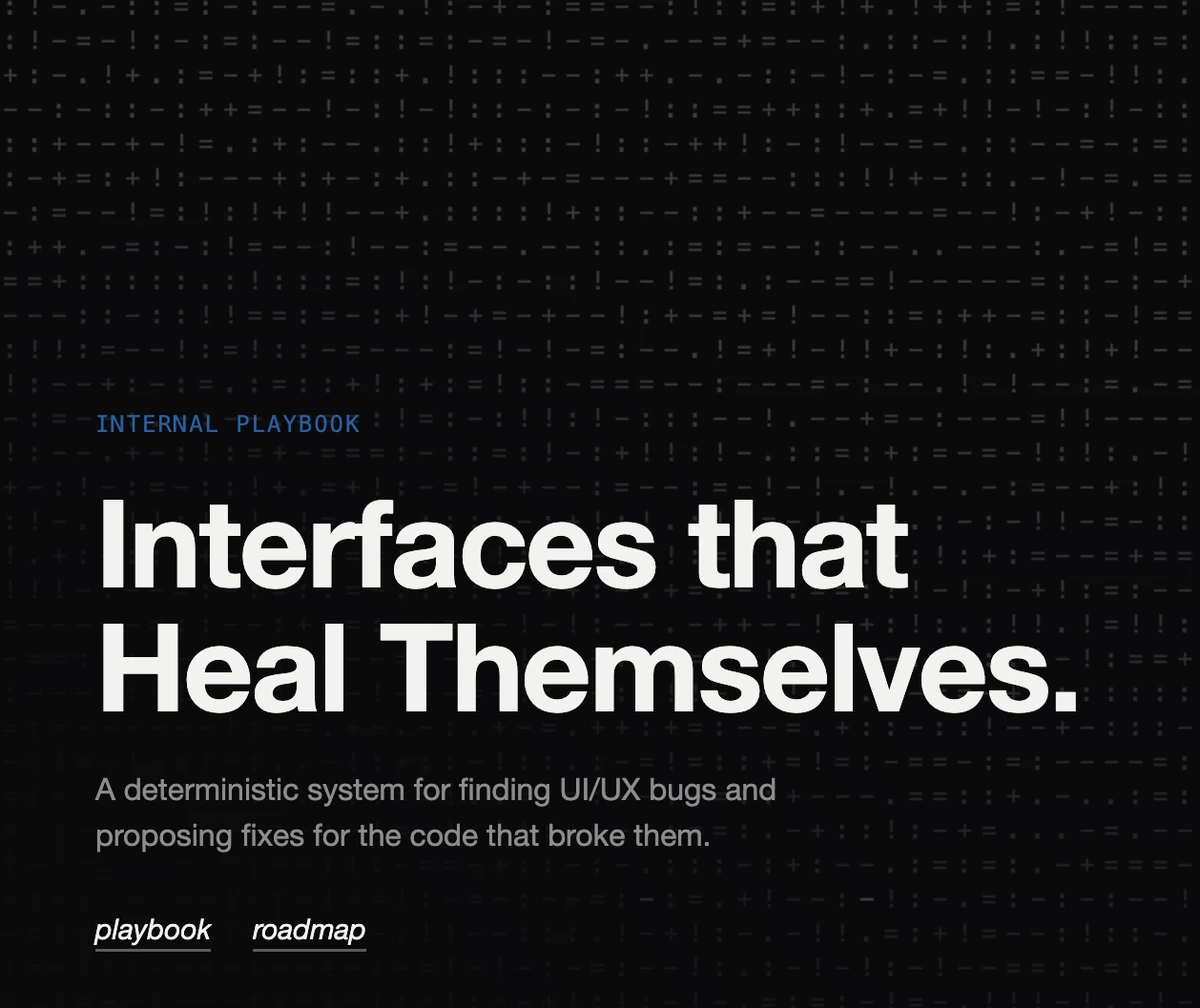
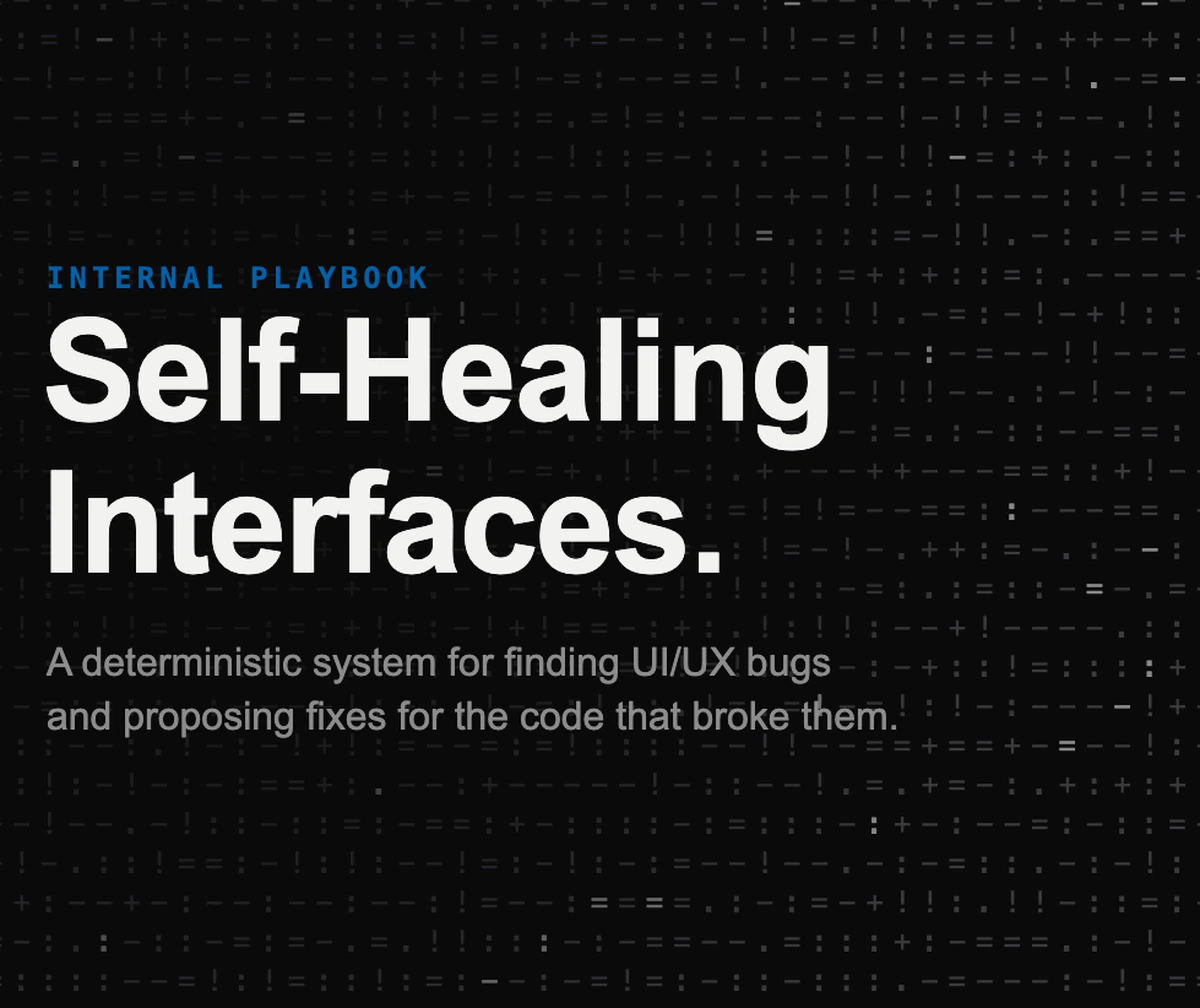
Simplify Organization to "Stealth Startup", swap in the new cover art
Preface's organization line drops the backers clause entirely.

Thumbnail is now suhana's supplied SVG cover ("Self-Healing Interfaces."
title, no nav links this time), cropped tight around its text block at
the tile's exact aspect ratio so it still fills with zero border.

Claude-Session: https://claude.ai/code/session_012UtzSmvA6R9ja3hmmTzGtg

diff --git a/components/desk/projects.ts b/components/desk/projects.ts
@@ -272,7 +272,7 @@ export const PROJECTS: Project[] = [
           [
             "Year: 2026",
             "Role: AI Engineering Intern",
-            "Organization: Stealth Startup, backed by Z Fellows; T1 Angels",
+            "Organization: Stealth Startup",
           ],
           ["Languages: Python, JavaScript, SQL"],
         ],
